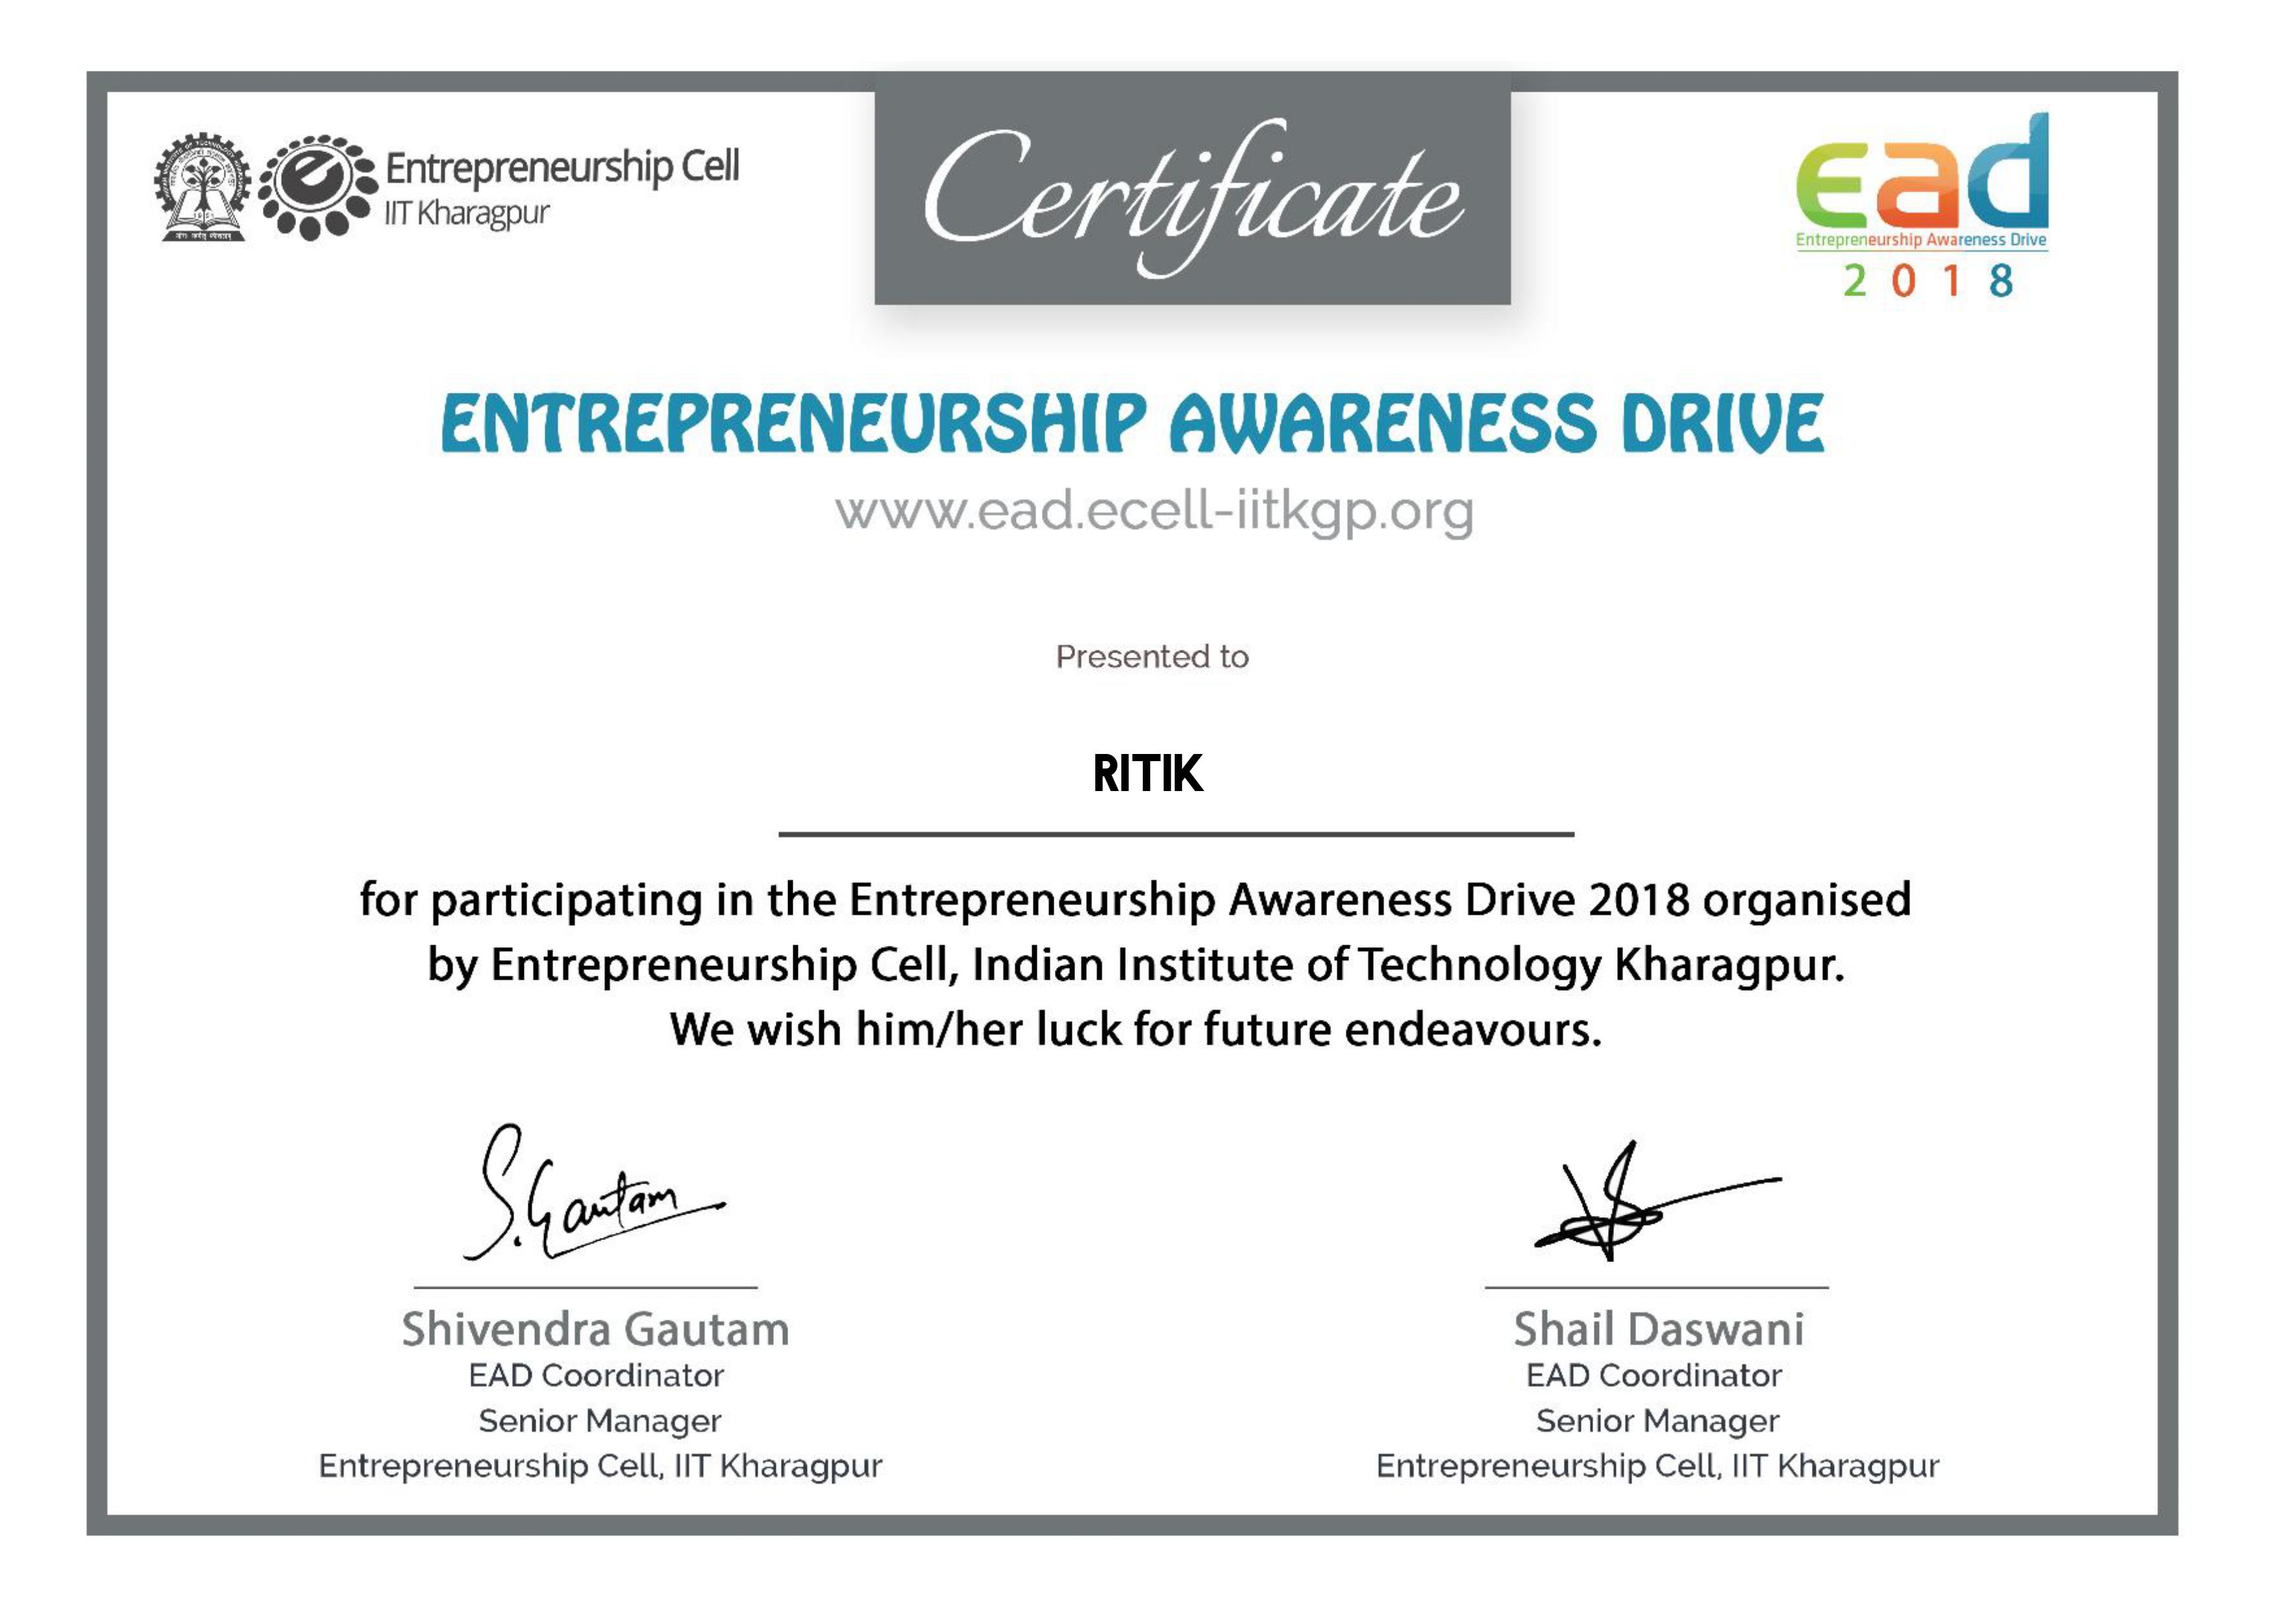
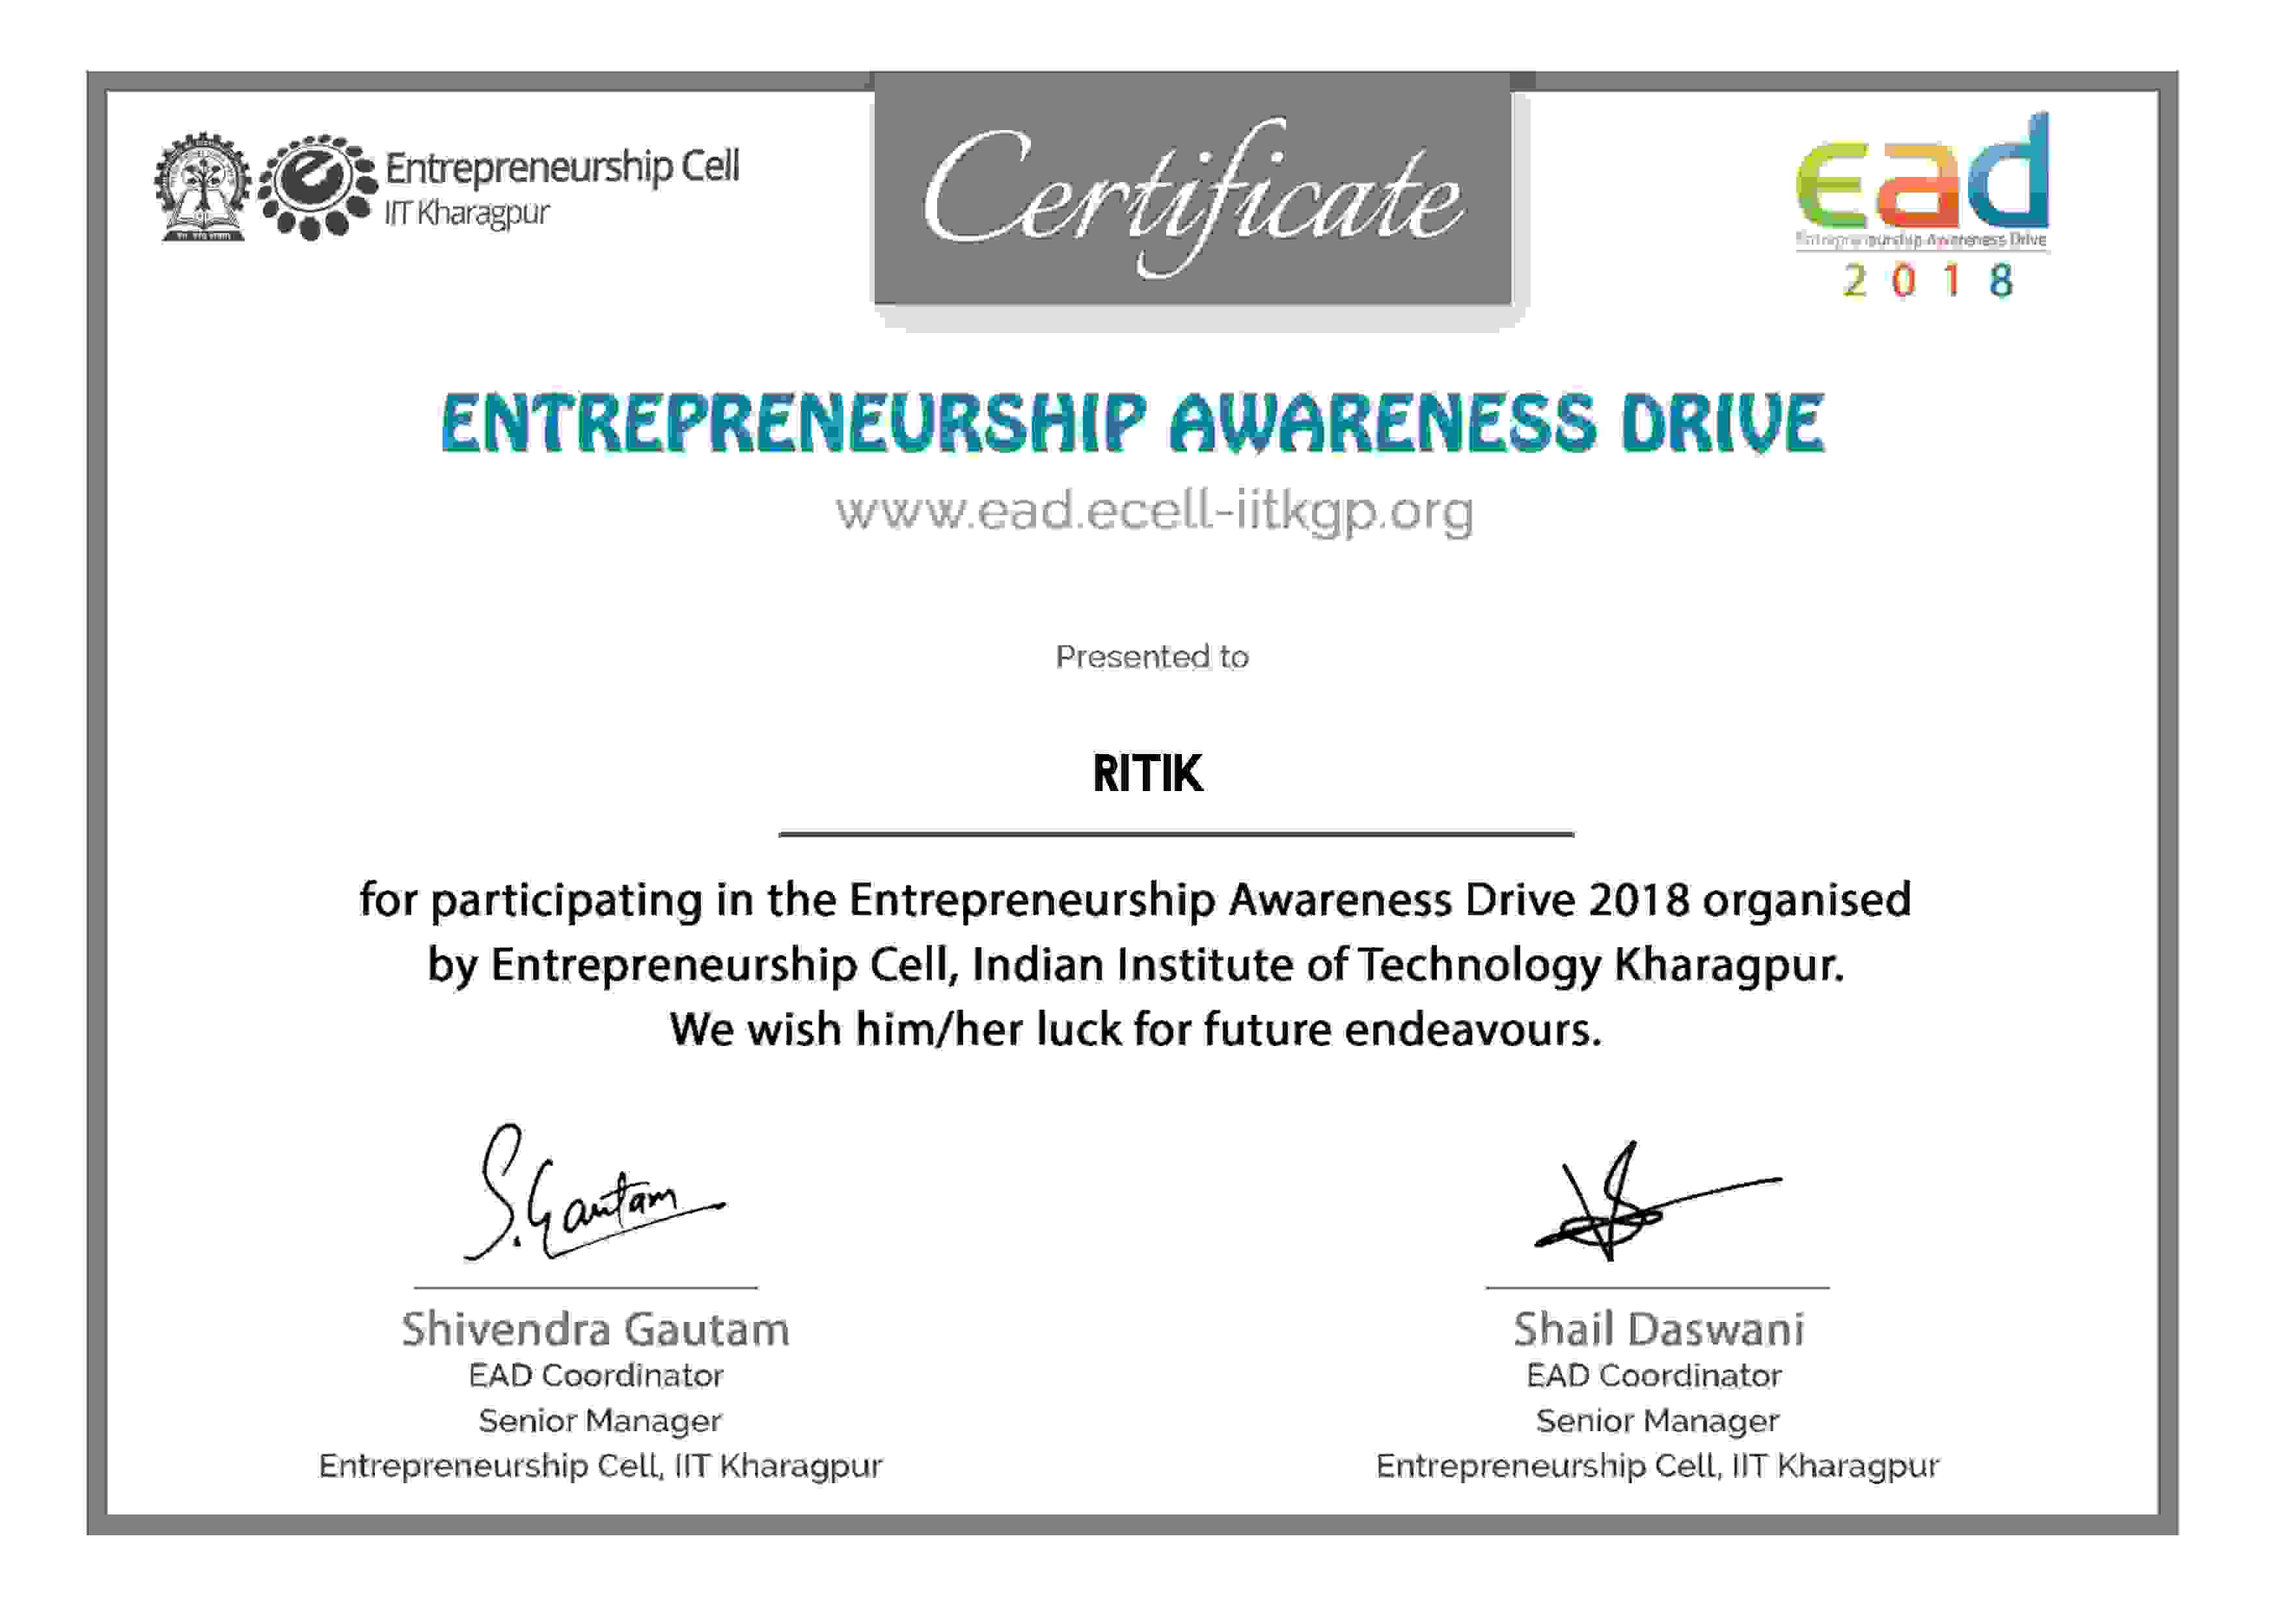
Compress Images for faster loading.

diff --git a/index.html b/index.html
@@ -250,7 +250,7 @@
       <h2 class="heading">Achievements & Certificates</h2>
       <!-- <img src="assets/certificates/0001 (1).jpg" alt=""> -->
       <div class="MagicScroll">
-        <img src="assets/certificates/CS50x.png" />
+        <img src="assets/certificates/CS50x.jpg" />
         <img src="assets/certificates/Kickstart_19_D.jpg" />
         <img src="assets/certificates/coursera-gcp.jpg" />
         <img src="assets/certificates/30-days-of-gcp.jpg" />
@@ -258,7 +258,7 @@
         <img src="assets/certificates/Code_Jam_19_Q_Round.jpg" alt="">
         <img src="assets/certificates/code-of-geeks-deepcode-2.jpg" alt="">
         <img src="assets/certificates/devfest-india-2020.jpg" alt="">
-        <img src="assets/certificates/DSC_Code_the_Covid.png" alt="">
+        <img src="assets/certificates/DSC_Code_the_Covid.jpg" alt="">
         <img src="assets/certificates/GFG_Placement_Preparation_Participation_certificate.jpg" alt="">
         <img src="assets/certificates/IIT-Kharagpur EAD-18.jpg" alt="">
       </div>
